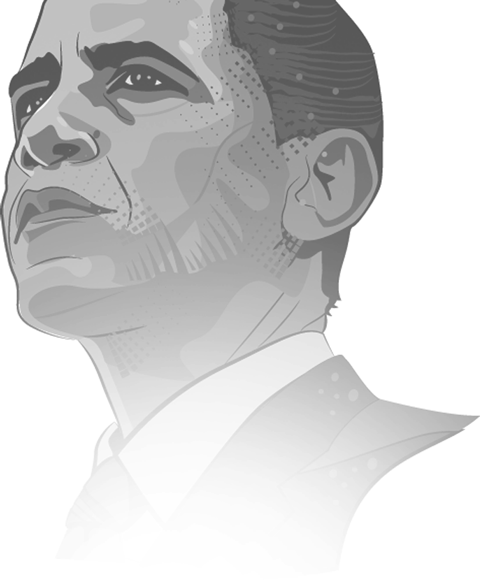
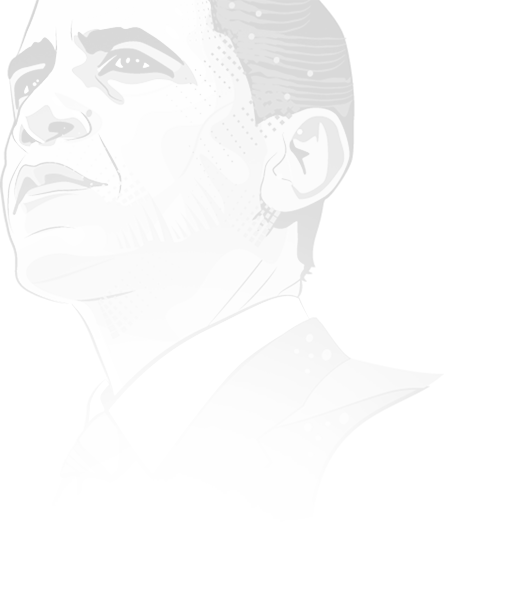
Changes that Thomas probably won't like.

diff --git a/styles/wetheusers.css b/styles/wetheusers.css
@@ -1,1 +1,1 @@
-/*! normalize.css v3.0.2 | MIT License | git.io/normalize */html{font-family:sans-serif;-ms-text-size-adjust:100%;-webkit-text-size-adjust:100%}body{margin:0}article,aside,details,figcaption,figure,footer,header,hgroup,main,menu,nav,section,summary{display:block}audio,canvas,progress,video{display:inline-block;vertical-align:baseline}audio:not([controls]){display:none;height:0}[hidden],template{display:none}a{background-color:transparent}a:active,a:hover{outline:0}abbr[title]{border-bottom:1px dotted}b,strong{font-weight:bold}dfn{font-style:italic}h1{font-size:2em;margin:0.67em 0}mark{background:#ff0;color:#000}small{font-size:80%}sub,sup{font-size:75%;line-height:0;position:relative;vertical-align:baseline}sup{top:-0.5em}sub{bottom:-0.25em}img{border:0}svg:not(:root){overflow:hidden}figure{margin:1em 40px}hr{-moz-box-sizing:content-box;box-sizing:content-box;height:0}pre{overflow:auto}code,kbd,pre,samp{font-family:monospace, monospace;font-size:1em}button,input,optgroup,select,textarea{color:inherit;font:inherit;margin:0}button{overflow:visible}button,select{text-transform:none}button,html input[type="button"],input[type="reset"],input[type="submit"]{-webkit-appearance:button;cursor:pointer}button[disabled],html input[disabled]{cursor:default}button::-moz-focus-inner,input::-moz-focus-inner{border:0;padding:0}input{line-height:normal}input[type="checkbox"],input[type="radio"]{box-sizing:border-box;padding:0}input[type="number"]::-webkit-inner-spin-button,input[type="number"]::-webkit-outer-spin-button{height:auto}input[type="search"]{-webkit-appearance:textfield;-moz-box-sizing:content-box;-webkit-box-sizing:content-box;box-sizing:content-box}input[type="search"]::-webkit-search-cancel-button,input[type="search"]::-webkit-search-decoration{-webkit-appearance:none}fieldset{border:1px solid #c0c0c0;margin:0 2px;padding:0.35em 0.625em 0.75em}legend{border:0;padding:0}textarea{overflow:auto}optgroup{font-weight:bold}table{border-collapse:collapse;border-spacing:0}td,th{padding:0}body{width:100%;*zoom:1}body:before,body:after{content:"";display:table}body:after{clear:both}html{font-size:112.5%;line-height:1.66667em}br.clear{clear:both;overflow:hidden;display:block;height:1px;margin-bottom:-1px;width:100%}html{background:#1f364d;background-image:-webkit-linear-gradient(left, #1f4869 0%,#1e2a3a 100%);background-image:linear-gradient(to right, #1f4869 0%,#1e2a3a 100%);color:#FFF;font-family:"source-sans-pro","Source Sans Pro",Helvetica,Arial,sans-serif}body{background:url(img/bg-obama.png) no-repeat left top}div.container{width:90%;padding:0 5%;max-width:900px;margin:0 auto}a{color:#209f95;text-decoration:none;box-shadow:inset 0 -3px 0 rgba(42,119,79,0.5)}a:hover{box-shadow:inset 0 -3px 0 rgba(42,119,79,0.5)}p{margin-top:0;margin-bottom:1.25em}h1,h2,h3,h4,h5{font-family:"bebas-neue","Bebas Neue","Franklin Gothic Condensed","Helvetica Neue Condensed",sans-serif;margin-top:0;font-weight:normal}header{text-align:center;padding-top:3.33333em;padding-bottom:1.66667em;color:#FFF}#signatures #signature-count{border-radius:3em;background:#101c29;height:0.8em;margin:0 auto;width:90%;padding:0.2em;max-width:480px;border:1px solid #2e4f71;margin-bottom:0.33333em}#signatures #signature-count span{display:block;background:#209f95;border-radius:3em;height:100%;-webkit-animation:pulse 1.5s 0s ease-in-out infinite alternate;-moz-animation:pulse 1.5s 0s ease-in-out infinite alternate;animation:pulse 1.5s 0s ease-in-out infinite alternate}#signatures p{color:#96b5d5;font-size:0.88889em;line-height:1.875em}#signatures p em{color:#dfe9f2;font-size:1.22222em;line-height:1.36364em;padding-right:0.1em}h1{font-family:"bebas-neue","Bebas Neue","Franklin Gothic Condensed","Helvetica Neue Condensed",sans-serif;font-weight:normal;margin-bottom:0.33333em;font-size:3.55556em;line-height:1.40625em;line-height:1em}h1 span{font-size:0.77778em;line-height:2.14286em;color:#96b5d5;line-height:1.1em;display:block}main{font-family:"droid-serif","Droid Serif",Cambria,Georgia,Times,serif;display:inline;float:left;width:66.66667%;margin:0 0%;box-shadow:0 5px 10px rgba(0,0,0,0.5);position:relative;z-index:2;background:#ebeef0;overflow:hidden;color:#333;border-radius:4px;padding-top:2.5em;padding-bottom:0.83333em;-webkit-transition:all 0.5s cubic-bezier(0.59, 0.005, 0, 1);-moz-transition:all 0.5s cubic-bezier(0.59, 0.005, 0, 1);transition:all 0.5s cubic-bezier(0.59, 0.005, 0, 1)}main .padding{padding:0 3em;padding-bottom:0}#expand{display:block;z-index:4;padding:1em 0;position:absolute;bottom:0;left:0;width:100%;font-size:1.11111em;line-height:1.5em;background:#FFF;background:rgba(255,255,255,0.9);text-shadow:0 0 5px #FFF;text-align:center;box-shadow:0px -3px 3px rgba(0,0,0,0.1);display:none}p.featured{font-size:1.33333em;line-height:1.25em}aside{display:inline;float:left;width:33.33333%;margin:0 0%;background:#20222c;color:#a6aabe;border-top-right-radius:5px;border:3px solid #209f95;border-left:none;margin-right:-3px;border:none;border-radius:0px;border-bottom-right-radius:5px}aside h2{color:#FFF}aside .padding{padding:2em}aside p.disclaimer{font-size:0.72222em;line-height:2.30769em;line-height:1.5em;margin:0;border-top:1px solid #35394a;padding-top:1.66667em;margin-top:1.66667em;color:#7a809e;text-align:center}form{padding-top:0em}form p{margin-bottom:0}form label{display:block;position:relative}form input[type="email"]:focus+label,form input[type="text"]:focus+label{-webkit-transform:scale(0.5);-moz-transform:scale(0.5);-ms-transform:scale(0.5);-o-transform:scale(0.5);transform:scale(0.5)}form input[type="email"]:focus,form input[type="text"]:focus{border-bottom:3px solid #209f95}form p.checkbox{cursor:pointer}form input{clear:both;background:transparent;color:#FFF;border:none;border-bottom:3px solid #35394a;padding-bottom:0.41667em;width:100%;-webkit-transition:all 0.5s cubic-bezier(0.59, 0.005, 0, 1);-moz-transition:all 0.5s cubic-bezier(0.59, 0.005, 0, 1);transition:all 0.5s cubic-bezier(0.59, 0.005, 0, 1);margin-top:0.41667em;margin-bottom:0.41667em}form input[value=""]{-webkit-transform:translate3d(0, -1.5em, 0);-moz-transform:translate3d(0, -1.5em, 0);-ms-transform:translate3d(0, -1.5em, 0);-o-transform:translate3d(0, -1.5em, 0);transform:translate3d(0, -1.5em, 0)}form input.filled,form input:focus{-webkit-transform:translate3d(0, 0, 0);-moz-transform:translate3d(0, 0, 0);-ms-transform:translate3d(0, 0, 0);-o-transform:translate3d(0, 0, 0);transform:translate3d(0, 0, 0)}form input[type=submit]{background:#209f95;border:none;-webkit-transform:none;-moz-transform:none;-ms-transform:none;-o-transform:none;transform:none;color:#FFF;font-weight:bold;text-transform:uppercase;padding:0.5em 0;display:block;border-radius:2px;box-shadow:0 2px 5px #000}form input[type=submit]:hover{background:#24b4a9;box-shadow:0 4px 10px #000}form input[type=submit]:active{background:#1c8a81;box-shadow:0 1px 2.5px #000}form p.checkbox{padding-top:0.41667em}form p.checkbox input{display:inline;float:left;width:8.33333%;margin:0 0%;-webkit-transform:none;-moz-transform:none;-ms-transform:none;-o-transform:none;transform:none}form p.checkbox label{margin:0;font-size:0.72222em;line-height:2.30769em;line-height:1.1em;display:inline;float:left;width:87.5%;margin:0 0%;margin-left:4.16667%;padding:0;padding-bottom:1.66667em}#modal{background:#1f364d;background:rgba(31,54,77,0.95);text-align:center;position:fixed;top:0;left:0;width:100%;height:100%;display:none;z-index:100}#modal div.container{width:100%;height:100%;display:table}#modal div.center{display:table-cell;vertical-align:middle;padding:0 2em}#modal p{max-width:380px;margin:0 auto;color:#a8c2dc;margin-bottom:0.83333em}#modal figure{width:50px;height:50px;position:relative;margin:0 auto;display:block;overflow:hidden;margin-bottom:1.66667em}#modal figure span{display:block}#modal .spinner{width:50px;height:50px}#modal .spinner .circle{width:50px;height:50px;border-radius:25px;border:5px solid #209f95}#modal .spinner .mask{width:25px;height:25px;overflow:hidden}footer{padding-top:1.66667em;padding-bottom:3.33333em;min-height:1px;clear:both}footer img{display:block}@-webkit-keyframes flyUp{0%{opacity:0;-webkit-transform:translate3d(0, 150px, 0);-moz-transform:translate3d(0, 150px, 0);-ms-transform:translate3d(0, 150px, 0);-o-transform:translate3d(0, 150px, 0);transform:translate3d(0, 150px, 0)}100%{opacity:1;-webkit-transform:translate3d(0, 0, 0);-moz-transform:translate3d(0, 0, 0);-ms-transform:translate3d(0, 0, 0);-o-transform:translate3d(0, 0, 0);transform:translate3d(0, 0, 0)}}@-moz-keyframes flyUp{0%{opacity:0;-webkit-transform:translate3d(0, 150px, 0);-moz-transform:translate3d(0, 150px, 0);-ms-transform:translate3d(0, 150px, 0);-o-transform:translate3d(0, 150px, 0);transform:translate3d(0, 150px, 0)}100%{opacity:1;-webkit-transform:translate3d(0, 0, 0);-moz-transform:translate3d(0, 0, 0);-ms-transform:translate3d(0, 0, 0);-o-transform:translate3d(0, 0, 0);transform:translate3d(0, 0, 0)}}@-ms-keyframes flyUp{0%{opacity:0;-webkit-transform:translate3d(0, 150px, 0);-moz-transform:translate3d(0, 150px, 0);-ms-transform:translate3d(0, 150px, 0);-o-transform:translate3d(0, 150px, 0);transform:translate3d(0, 150px, 0)}100%{opacity:1;-webkit-transform:translate3d(0, 0, 0);-moz-transform:translate3d(0, 0, 0);-ms-transform:translate3d(0, 0, 0);-o-transform:translate3d(0, 0, 0);transform:translate3d(0, 0, 0)}}@keyframes flyUp{0%{opacity:0;-webkit-transform:translate3d(0, 150px, 0);-moz-transform:translate3d(0, 150px, 0);-ms-transform:translate3d(0, 150px, 0);-o-transform:translate3d(0, 150px, 0);transform:translate3d(0, 150px, 0)}100%{opacity:1;-webkit-transform:translate3d(0, 0, 0);-moz-transform:translate3d(0, 0, 0);-ms-transform:translate3d(0, 0, 0);-o-transform:translate3d(0, 0, 0);transform:translate3d(0, 0, 0)}}h1,#signatures,main,aside{-webkit-animation:flyUp 1s 0.1s cubic-bezier(0.58, 0, 0, 1);-moz-animation:flyUp 1s 0.1s cubic-bezier(0.58, 0, 0, 1);animation:flyUp 1s 0.1s cubic-bezier(0.58, 0, 0, 1);-webkit-animation-fill-mode:both;-moz-animation-fill-mode:both;animation-fill-mode:both}#signatures{-webkit-animation-delay:0.2s;-moz-animation-delay:0.2s;animation-delay:0.2s}main,aside{-webkit-animation-delay:0.3s;-moz-animation-delay:0.3s;animation-delay:0.3s}@-webkit-keyframes spin{0%{-webkit-transform:rotate(0);-moz-transform:rotate(0);-ms-transform:rotate(0);-o-transform:rotate(0);transform:rotate(0)}100%{-webkit-transform:rotate(360deg);-moz-transform:rotate(360deg);-ms-transform:rotate(360deg);-o-transform:rotate(360deg);transform:rotate(360deg)}}@-moz-keyframes spin{0%{-webkit-transform:rotate(0);-moz-transform:rotate(0);-ms-transform:rotate(0);-o-transform:rotate(0);transform:rotate(0)}100%{-webkit-transform:rotate(360deg);-moz-transform:rotate(360deg);-ms-transform:rotate(360deg);-o-transform:rotate(360deg);transform:rotate(360deg)}}@-ms-keyframes spin{0%{-webkit-transform:rotate(0);-moz-transform:rotate(0);-ms-transform:rotate(0);-o-transform:rotate(0);transform:rotate(0)}100%{-webkit-transform:rotate(360deg);-moz-transform:rotate(360deg);-ms-transform:rotate(360deg);-o-transform:rotate(360deg);transform:rotate(360deg)}}@keyframes spin{0%{-webkit-transform:rotate(0);-moz-transform:rotate(0);-ms-transform:rotate(0);-o-transform:rotate(0);transform:rotate(0)}100%{-webkit-transform:rotate(360deg);-moz-transform:rotate(360deg);-ms-transform:rotate(360deg);-o-transform:rotate(360deg);transform:rotate(360deg)}}div#modal figure .spinner{-webkit-animation:spin 1s 0s linear infinite;-moz-animation:spin 1s 0s linear infinite;animation:spin 1s 0s linear infinite}@-webkit-keyframes pulse{0%{opacity:1}100%{opacity:0.7}}@-moz-keyframes pulse{0%{opacity:1}100%{opacity:0.7}}@-ms-keyframes pulse{0%{opacity:1}100%{opacity:0.7}}@keyframes pulse{0%{opacity:1}100%{opacity:0.7}}@media screen and (max-width: 830px){main{display:inline;float:left;width:58.33333%;margin:0 0%;font-size:0.88889em;line-height:1.875em}main .padding{padding:0 2em}aside{display:inline;float:left;width:41.66667%;margin:0 0%}}@media screen and (max-width: 640px){body{padding:0;background-size:80% auto}header{padding-top:3.33333em;padding-bottom:1.66667em}h1{font-size:2em;line-height:1.66667em;line-height:1.1em;padding:0}body{font-size:0.77778em;line-height:2.14286em}main{max-height:180px;display:inline;float:left;width:100%;margin:0 0%;padding:0}main .padding{padding:1.5em}main p.featured,main p{font-size:1em;line-height:1.66667em}main.expanded{max-height:2000px}aside{display:inline;float:left;width:100%;margin:0 0%;font-size:1.22222em;line-height:1.36364em}#expand{display:block}.expanded #expand{display:none}}
+/*! normalize.css v3.0.2 | MIT License | git.io/normalize */html{font-family:sans-serif;-ms-text-size-adjust:100%;-webkit-text-size-adjust:100%}body{margin:0}article,aside,details,figcaption,figure,footer,header,hgroup,main,menu,nav,section,summary{display:block}audio,canvas,progress,video{display:inline-block;vertical-align:baseline}audio:not([controls]){display:none;height:0}[hidden],template{display:none}a{background-color:transparent}a:active,a:hover{outline:0}abbr[title]{border-bottom:1px dotted}b,strong{font-weight:bold}dfn{font-style:italic}h1{font-size:2em;margin:0.67em 0}mark{background:#ff0;color:#000}small{font-size:80%}sub,sup{font-size:75%;line-height:0;position:relative;vertical-align:baseline}sup{top:-0.5em}sub{bottom:-0.25em}img{border:0}svg:not(:root){overflow:hidden}figure{margin:1em 40px}hr{-moz-box-sizing:content-box;box-sizing:content-box;height:0}pre{overflow:auto}code,kbd,pre,samp{font-family:monospace, monospace;font-size:1em}button,input,optgroup,select,textarea{color:inherit;font:inherit;margin:0}button{overflow:visible}button,select{text-transform:none}button,html input[type="button"],input[type="reset"],input[type="submit"]{-webkit-appearance:button;cursor:pointer}button[disabled],html input[disabled]{cursor:default}button::-moz-focus-inner,input::-moz-focus-inner{border:0;padding:0}input{line-height:normal}input[type="checkbox"],input[type="radio"]{box-sizing:border-box;padding:0}input[type="number"]::-webkit-inner-spin-button,input[type="number"]::-webkit-outer-spin-button{height:auto}input[type="search"]{-webkit-appearance:textfield;-moz-box-sizing:content-box;-webkit-box-sizing:content-box;box-sizing:content-box}input[type="search"]::-webkit-search-cancel-button,input[type="search"]::-webkit-search-decoration{-webkit-appearance:none}fieldset{border:1px solid #c0c0c0;margin:0 2px;padding:0.35em 0.625em 0.75em}legend{border:0;padding:0}textarea{overflow:auto}optgroup{font-weight:bold}table{border-collapse:collapse;border-spacing:0}td,th{padding:0}body{width:100%;*zoom:1}body:before,body:after{content:"";display:table}body:after{clear:both}html{font-size:112.5%;line-height:1.66667em}br.clear{clear:both;overflow:hidden;display:block;height:1px;margin-bottom:-1px;width:100%}html{background:#fff;background-image:-webkit-linear-gradient(left, #E3F8FF 0%,#F9FDFF 100%);background-image:linear-gradient(to right, #E3F8FF 0%,#F9FDFF 100%);color:#FFF;font-family:"source-sans-pro","Source Sans Pro",Helvetica,Arial,sans-serif}body{background:url(img/bg-obama.png) no-repeat left top}div.container{width:90%;padding:0 5%;max-width:900px;margin:0 auto}a{color:#209f95;text-decoration:none;box-shadow:inset 0 -3px 0 rgba(42,119,79,0.5)}a:hover{box-shadow:inset 0 -3px 0 rgba(42,119,79,0.5)}p{margin-top:0;margin-bottom:1.25em}h1,h2,h3,h4,h5{font-family:"bebas-neue","Bebas Neue","Franklin Gothic Condensed","Helvetica Neue Condensed",sans-serif;margin-top:0;font-weight:normal}header{text-align:center;padding-top:3.33333em;padding-bottom:1.66667em;color:#4d4d4d}.intro-text{font-size:1.11111em;line-height:1.5em;line-height:1.7em;max-width:600px;margin-left:auto;margin-right:auto;text-align:left}#signatures #signature-count{border-radius:3em;background:#4d4d4d;height:0.8em;margin:0 auto;width:90%;padding:0.2em;max-width:480px;border:1px solid #fff;margin-bottom:0.33333em}#signatures #signature-count span{display:block;background:#209f95;border-radius:3em;height:100%;-webkit-animation:pulse 1.5s 0s ease-in-out infinite alternate;-moz-animation:pulse 1.5s 0s ease-in-out infinite alternate;animation:pulse 1.5s 0s ease-in-out infinite alternate}#signatures p{color:gray;font-size:0.88889em;line-height:1.875em}#signatures p em{color:#333;font-size:1.22222em;line-height:1.36364em;padding-right:0.1em}h1{font-family:"bebas-neue","Bebas Neue","Franklin Gothic Condensed","Helvetica Neue Condensed",sans-serif;font-weight:normal;margin-bottom:0.33333em;font-size:3.55556em;line-height:1.40625em;line-height:1em;color:#1b5c70}h1 span{font-size:0.77778em;line-height:2.14286em;color:#4d4d4d;line-height:1.1em;display:block}main{font-family:"droid-serif","Droid Serif",Cambria,Georgia,Times,serif;display:inline;float:left;width:66.66667%;margin:0 0%;box-shadow:0 5px 10px rgba(0,0,0,0.5);position:relative;z-index:2;background:#ebeef0;overflow:hidden;color:#333;border-radius:4px;padding-top:2.5em;padding-bottom:0.83333em;-webkit-transition:all 0.5s cubic-bezier(0.59, 0.005, 0, 1);-moz-transition:all 0.5s cubic-bezier(0.59, 0.005, 0, 1);transition:all 0.5s cubic-bezier(0.59, 0.005, 0, 1)}main .padding{padding:0 3em;padding-bottom:0}#expand{display:block;z-index:4;padding:1em 0;position:absolute;bottom:0;left:0;width:100%;font-size:1.11111em;line-height:1.5em;background:#FFF;background:rgba(255,255,255,0.9);text-shadow:0 0 5px #FFF;text-align:center;box-shadow:0px -3px 3px rgba(0,0,0,0.1);display:none}p.featured{font-size:1.33333em;line-height:1.25em}aside{display:inline;float:left;width:33.33333%;margin:0 0%;background:#20222c;color:#a6aabe;border-top-right-radius:5px;border:3px solid #209f95;border-left:none;margin-right:-3px;border:none;border-radius:0px;border-bottom-right-radius:5px}aside h2{color:#FFF}aside .padding{padding:2em}aside p.disclaimer{font-size:0.72222em;line-height:2.30769em;line-height:1.5em;margin:0;border-top:1px solid #35394a;padding-top:1.66667em;margin-top:1.66667em;color:#7a809e;text-align:center}form{padding-top:0em}form p{margin-bottom:0}form label{display:block;position:relative}form input[type="email"]:focus+label,form input[type="text"]:focus+label{-webkit-transform:scale(0.5);-moz-transform:scale(0.5);-ms-transform:scale(0.5);-o-transform:scale(0.5);transform:scale(0.5)}form input[type="email"]:focus,form input[type="text"]:focus{border-bottom:3px solid #209f95}form p.checkbox{cursor:pointer}form input{clear:both;background:transparent;color:#FFF;border:none;border-bottom:3px solid #fff;padding-bottom:0.41667em;width:100%;-webkit-transition:all 0.5s cubic-bezier(0.59, 0.005, 0, 1);-moz-transition:all 0.5s cubic-bezier(0.59, 0.005, 0, 1);transition:all 0.5s cubic-bezier(0.59, 0.005, 0, 1);margin-top:0.41667em;margin-bottom:0.41667em}form input[value=""]{-webkit-transform:translate3d(0, -1.5em, 0);-moz-transform:translate3d(0, -1.5em, 0);-ms-transform:translate3d(0, -1.5em, 0);-o-transform:translate3d(0, -1.5em, 0);transform:translate3d(0, -1.5em, 0)}form input.filled,form input:focus{-webkit-transform:translate3d(0, 0, 0);-moz-transform:translate3d(0, 0, 0);-ms-transform:translate3d(0, 0, 0);-o-transform:translate3d(0, 0, 0);transform:translate3d(0, 0, 0)}form input[type=submit]{background:#209f95;border:none;-webkit-transform:none;-moz-transform:none;-ms-transform:none;-o-transform:none;transform:none;color:#FFF;font-weight:bold;text-transform:uppercase;padding:0.5em 0;display:block;border-radius:2px;box-shadow:0 2px 5px #000}form input[type=submit]:hover{background:#24b4a9;box-shadow:0 4px 10px #000}form input[type=submit]:active{background:#1c8a81;box-shadow:0 1px 2.5px #000}form p.checkbox{padding-top:0.41667em}form p.checkbox input{display:inline;float:left;width:8.33333%;margin:0 0%;-webkit-transform:none;-moz-transform:none;-ms-transform:none;-o-transform:none;transform:none}form p.checkbox label{margin:0;font-size:0.72222em;line-height:2.30769em;line-height:1.1em;display:inline;float:left;width:87.5%;margin:0 0%;margin-left:4.16667%;padding:0;padding-bottom:1.66667em}#modal{background:#fff;background:rgba(31,54,77,0.95);text-align:center;position:fixed;top:0;left:0;width:100%;height:100%;display:none;z-index:100}#modal div.container{width:100%;height:100%;display:table}#modal div.center{display:table-cell;vertical-align:middle;padding:0 2em}#modal p{max-width:380px;margin:0 auto;color:#fff;margin-bottom:0.83333em}#modal figure{width:50px;height:50px;position:relative;margin:0 auto;display:block;overflow:hidden;margin-bottom:1.66667em}#modal figure span{display:block}#modal .spinner{width:50px;height:50px}#modal .spinner .circle{width:50px;height:50px;border-radius:25px;border:5px solid #209f95}#modal .spinner .mask{width:25px;height:25px;overflow:hidden}footer{padding-top:1.66667em;padding-bottom:3.33333em;min-height:1px;clear:both}footer img{display:block}@-webkit-keyframes flyUp{0%{opacity:0;-webkit-transform:translate3d(0, 150px, 0);-moz-transform:translate3d(0, 150px, 0);-ms-transform:translate3d(0, 150px, 0);-o-transform:translate3d(0, 150px, 0);transform:translate3d(0, 150px, 0)}100%{opacity:1;-webkit-transform:translate3d(0, 0, 0);-moz-transform:translate3d(0, 0, 0);-ms-transform:translate3d(0, 0, 0);-o-transform:translate3d(0, 0, 0);transform:translate3d(0, 0, 0)}}@-moz-keyframes flyUp{0%{opacity:0;-webkit-transform:translate3d(0, 150px, 0);-moz-transform:translate3d(0, 150px, 0);-ms-transform:translate3d(0, 150px, 0);-o-transform:translate3d(0, 150px, 0);transform:translate3d(0, 150px, 0)}100%{opacity:1;-webkit-transform:translate3d(0, 0, 0);-moz-transform:translate3d(0, 0, 0);-ms-transform:translate3d(0, 0, 0);-o-transform:translate3d(0, 0, 0);transform:translate3d(0, 0, 0)}}@-ms-keyframes flyUp{0%{opacity:0;-webkit-transform:translate3d(0, 150px, 0);-moz-transform:translate3d(0, 150px, 0);-ms-transform:translate3d(0, 150px, 0);-o-transform:translate3d(0, 150px, 0);transform:translate3d(0, 150px, 0)}100%{opacity:1;-webkit-transform:translate3d(0, 0, 0);-moz-transform:translate3d(0, 0, 0);-ms-transform:translate3d(0, 0, 0);-o-transform:translate3d(0, 0, 0);transform:translate3d(0, 0, 0)}}@keyframes flyUp{0%{opacity:0;-webkit-transform:translate3d(0, 150px, 0);-moz-transform:translate3d(0, 150px, 0);-ms-transform:translate3d(0, 150px, 0);-o-transform:translate3d(0, 150px, 0);transform:translate3d(0, 150px, 0)}100%{opacity:1;-webkit-transform:translate3d(0, 0, 0);-moz-transform:translate3d(0, 0, 0);-ms-transform:translate3d(0, 0, 0);-o-transform:translate3d(0, 0, 0);transform:translate3d(0, 0, 0)}}h1,.intro-text,#signatures,main,aside{-webkit-animation:flyUp 1s 0.1s cubic-bezier(0.58, 0, 0, 1);-moz-animation:flyUp 1s 0.1s cubic-bezier(0.58, 0, 0, 1);animation:flyUp 1s 0.1s cubic-bezier(0.58, 0, 0, 1);-webkit-animation-fill-mode:both;-moz-animation-fill-mode:both;animation-fill-mode:both}.header #signatures{-webkit-animation-delay:0.2s;-moz-animation-delay:0.2s;animation-delay:0.2s}.intro-text{-webkit-animation-delay:0.1s;-moz-animation-delay:0.1s;animation-delay:0.1s}main,aside{-webkit-animation-delay:0.3s;-moz-animation-delay:0.3s;animation-delay:0.3s}@-webkit-keyframes spin{0%{-webkit-transform:rotate(0);-moz-transform:rotate(0);-ms-transform:rotate(0);-o-transform:rotate(0);transform:rotate(0)}100%{-webkit-transform:rotate(360deg);-moz-transform:rotate(360deg);-ms-transform:rotate(360deg);-o-transform:rotate(360deg);transform:rotate(360deg)}}@-moz-keyframes spin{0%{-webkit-transform:rotate(0);-moz-transform:rotate(0);-ms-transform:rotate(0);-o-transform:rotate(0);transform:rotate(0)}100%{-webkit-transform:rotate(360deg);-moz-transform:rotate(360deg);-ms-transform:rotate(360deg);-o-transform:rotate(360deg);transform:rotate(360deg)}}@-ms-keyframes spin{0%{-webkit-transform:rotate(0);-moz-transform:rotate(0);-ms-transform:rotate(0);-o-transform:rotate(0);transform:rotate(0)}100%{-webkit-transform:rotate(360deg);-moz-transform:rotate(360deg);-ms-transform:rotate(360deg);-o-transform:rotate(360deg);transform:rotate(360deg)}}@keyframes spin{0%{-webkit-transform:rotate(0);-moz-transform:rotate(0);-ms-transform:rotate(0);-o-transform:rotate(0);transform:rotate(0)}100%{-webkit-transform:rotate(360deg);-moz-transform:rotate(360deg);-ms-transform:rotate(360deg);-o-transform:rotate(360deg);transform:rotate(360deg)}}div#modal figure .spinner{-webkit-animation:spin 1s 0s linear infinite;-moz-animation:spin 1s 0s linear infinite;animation:spin 1s 0s linear infinite}@-webkit-keyframes pulse{0%{opacity:1}100%{opacity:0.7}}@-moz-keyframes pulse{0%{opacity:1}100%{opacity:0.7}}@-ms-keyframes pulse{0%{opacity:1}100%{opacity:0.7}}@keyframes pulse{0%{opacity:1}100%{opacity:0.7}}@media screen and (max-width: 830px){main{display:inline;float:left;width:58.33333%;margin:0 0%;font-size:0.88889em;line-height:1.875em}main .padding{padding:0 2em}aside{display:inline;float:left;width:41.66667%;margin:0 0%}}@media screen and (max-width: 640px){body{padding:0;background-size:80% auto}header{padding-top:3.33333em;padding-bottom:1.66667em}h1{font-size:2em;line-height:1.66667em;line-height:1.1em;padding:0}body{font-size:0.77778em;line-height:2.14286em}main{max-height:180px;display:inline;float:left;width:100%;margin:0 0%;padding:0}main .padding{padding:1.5em}main p.featured,main p{font-size:1em;line-height:1.66667em}main.expanded{max-height:2000px}aside{display:inline;float:left;width:100%;margin:0 0%;font-size:1.22222em;line-height:1.36364em}#expand{display:block}.expanded #expand{display:none}}

diff --git a/sass/wetheusers.scss b/sass/wetheusers.scss
@@ -15,7 +15,7 @@ br.clear {
 
 html {
   background: $background;
-  @include background-image( linear-gradient(to right, #1f4869 0%, #1e2a3a 100%) );
+  @include background-image( linear-gradient(to right, #E3F8FF 0%, #F9FDFF 100%) );
   color: #FFF;
   font-family: $body-text;
   
@@ -58,13 +58,22 @@ header {
   text-align: center;
   @include padding-leader(2);
   @include padding-trailer(1);
-  color: #FFF;
+  color: darken($background, 70%);
+}
+
+.intro-text {
+    @include adjust-font-size-to(20px);
+    line-height: 1.7em;
+    max-width: 600px;
+    margin-left: auto;
+    margin-right: auto;
+    text-align: left;
 }
 
 #signatures {
   #signature-count {
     border-radius: 3em;
-    background: darken($background, 10%);
+    background: darken($background, 70%);
     height: 0.8em;
     margin: 0 auto;
     width: 90%;
@@ -81,10 +90,10 @@ header {
     }
   }
   p {
-    color: lighten($background, 50%);
+    color: darken($background, 50%);
     @include adjust-font-size-to(16px);
     em {
-      color: lighten($background, 70%);
+      color: darken($background, 80%);
       @include adjust-font-size-to(22px);
       padding-right: 0.1em;
     }
@@ -97,9 +106,10 @@ h1 {
   @include margin-trailer(0.2);
   @include adjust-font-size-to(64px);
   line-height: 1em;
+  color: darken($blue, 7%);
   span {
     @include adjust-font-size-to(14px);
-    color: lighten($background, 50%);
+    color: darken($background, 70%);
     line-height: 1.1em;
     display: block;
   }
@@ -203,7 +213,7 @@ form {
     background: transparent;
     color: #FFF;
     border: none;
-    border-bottom: 3px solid lighten(#20222c, 10%);
+    border-bottom: 3px solid #fff;
     @include padding-trailer(0.25);
     width: 100%;
     @include transition(all 0.5s $cubicBezier);
@@ -342,12 +352,16 @@ footer {
   }
 }
 
-h1, #signatures, main, aside {
+h1, .intro-text, #signatures, main, aside {
   @include animation(flyUp 1s 0.1s cubic-bezier(0.580, 0.000, 0.000, 1.000));
   @include animation-fill-mode(both);
 }
+.header
 #signatures {
   @include animation-delay(0.2s);
+}
+.intro-text {
+  @include animation-delay(0.1s);
 }
 main, aside {
   @include animation-delay(0.3s);

diff --git a/index.html b/index.html
@@ -24,11 +24,16 @@
   <body>
     <div class="container">
       <header>
-        <h1>
-          <span>Dear President Obama,</span> 
-          Take a stand for Net Neutrality
-        </h1>
         
+        <h1>
+          <span>Help us tip the balance:</span> 
+        </h1>
+
+        <p class="intro-text">In the last 6 months, millions of us have written to the FCC asking for strong, clear net neutrality regulations. The future of broadband hangs in the balance, and FCC Chairman Tom Wheeler seems unsure of his next move.</p> 
+        <p class="intro-text">One voice could tilt the balance, and convince Wheeler to enforce strong neutrality: President Obama. The petition below submits your signatures electronically to the White House's "We the People" petition site. Help us make this the most popular petition in that site's history, and convince President Obama to speak out for Title II.</p>
+
+        <h1><span>Progress so far:</span></h1>
+
         <div id="signatures">
           <div id="signature-count"><span style="width: 60%;"></span></div>
           <p>We need <em>100,000</em> signatures for the White House to respond<br>

diff --git a/sass/_variables.scss b/sass/_variables.scss
@@ -1,7 +1,8 @@
 $cubicBezier: cubic-bezier(0.590, 0.005, 0.000, 1.000);
 
-$background: #1f364d;
+$background: #fff;
 $highlight: #209f95;
+$blue: #22738D;
 
 $body-text: "source-sans-pro", "Source Sans Pro", Helvetica, Arial, sans-serif;
 $petition-text: "droid-serif", "Droid Serif", Cambria, Georgia, Times, serif;
